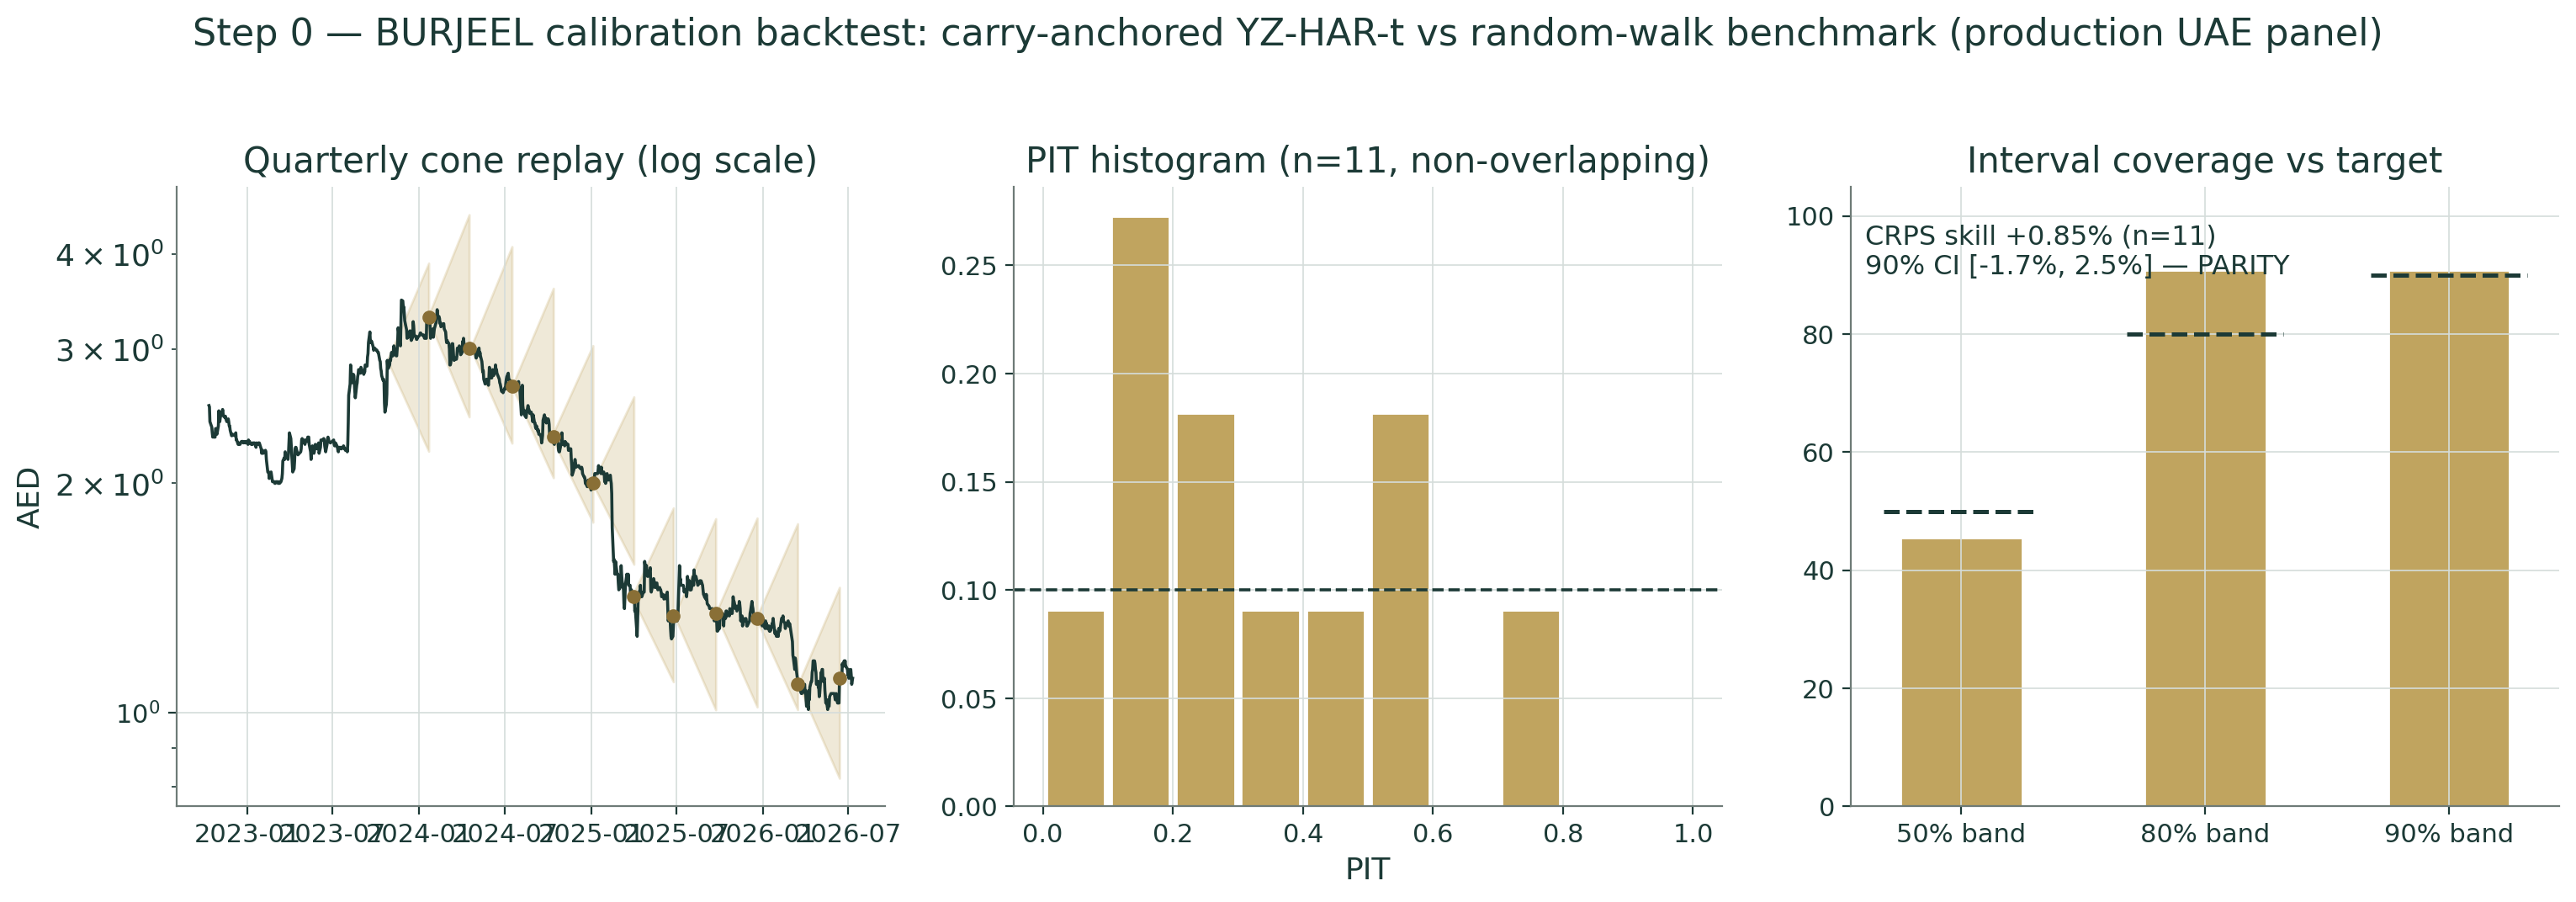
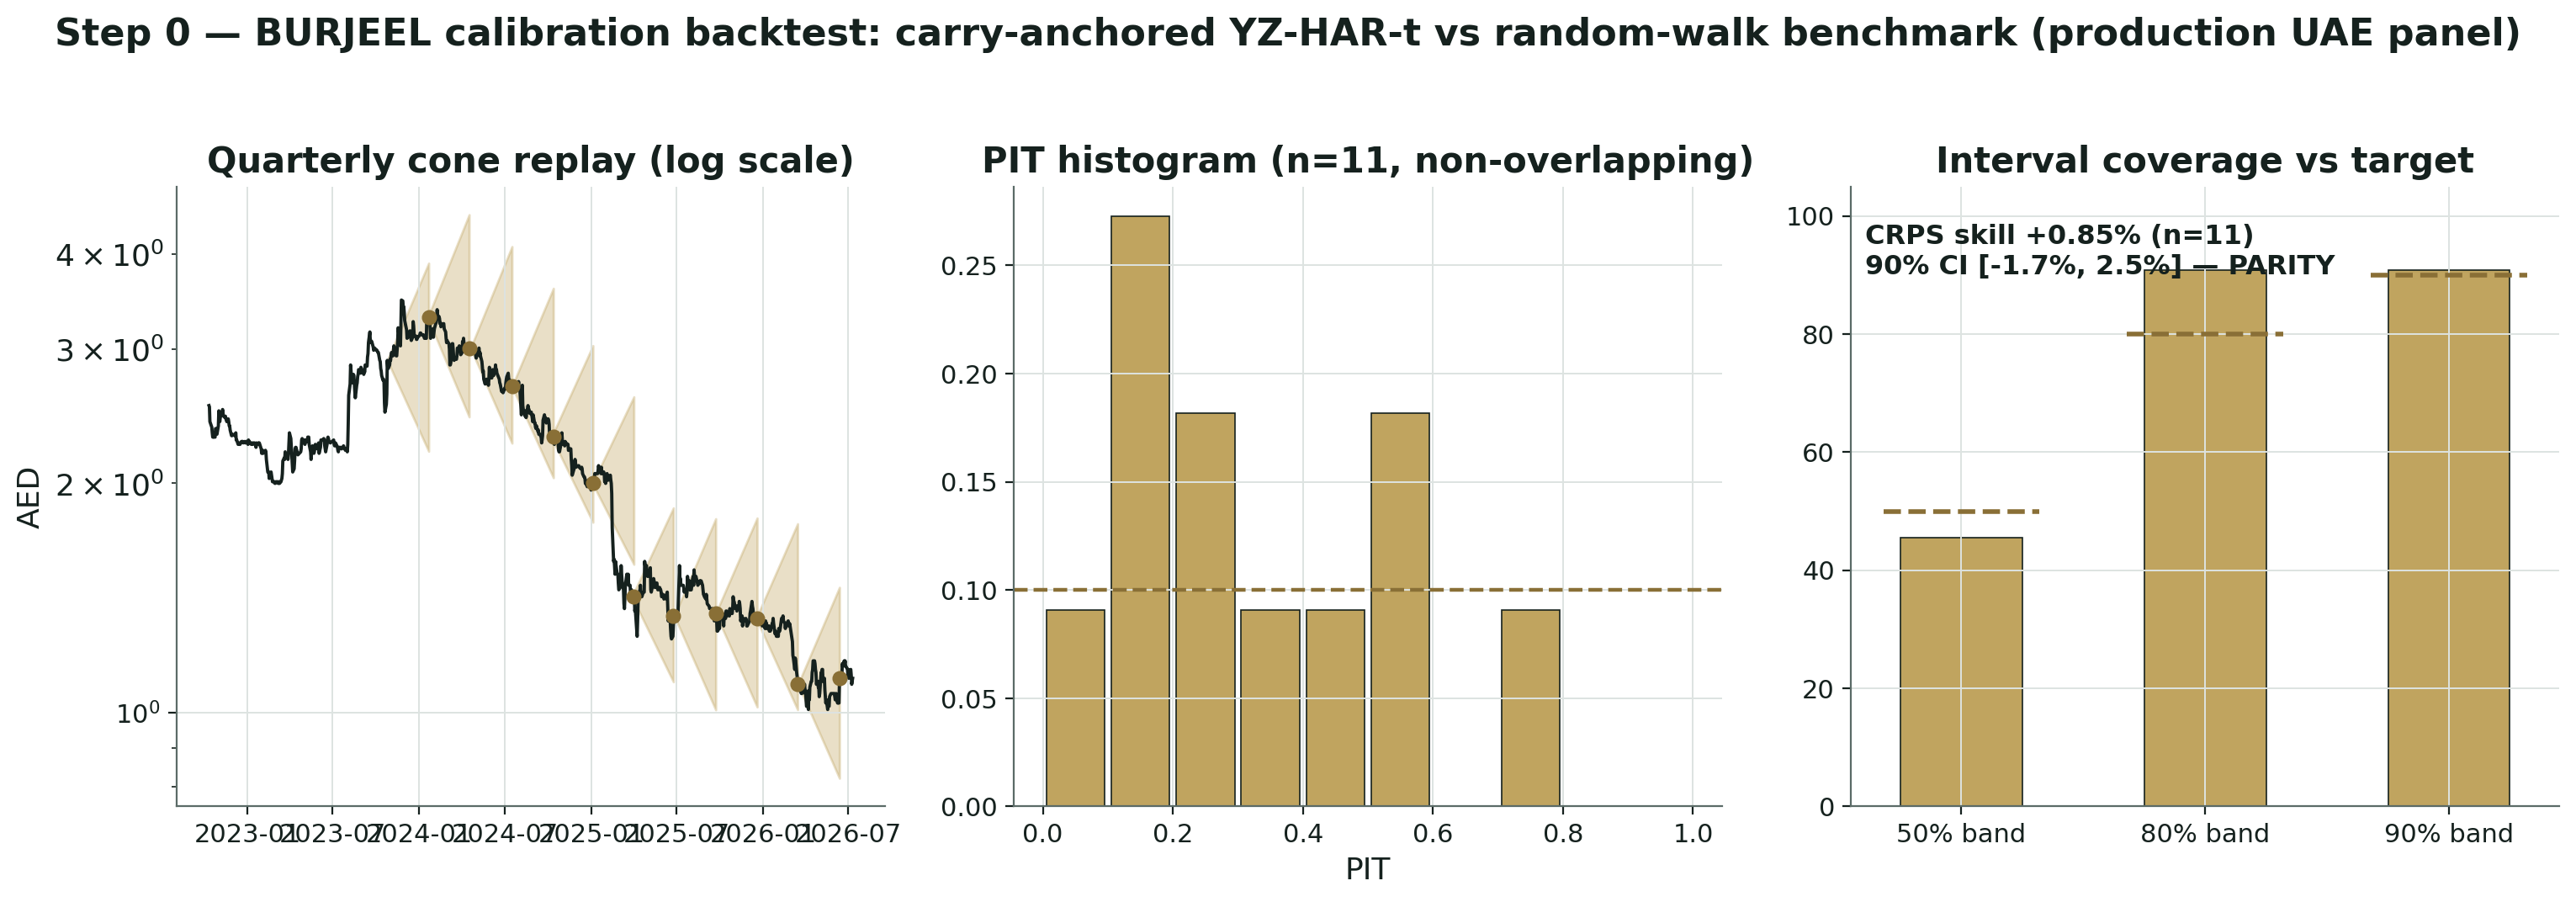
Fix calibration_BURJEEL.png contrast — solid white background + dark ink text (was transparent dark-teal text, invisible on the dark-theme card); bump cache-bust to 20260712e

diff --git a/assets/data.js b/assets/data.js
@@ -29,10 +29,10 @@ const TICKERS = {
       bear: "Losing AED 0.93 — the all-time low, one fil below spot — puts the stock into price territory it has never traded in. There is no support below it because there is no history below it."
     },
     files: {
-      study: "files/LULU_Valuation_Study_12-07-2026_public.docx?v=20260712d",
-      model: "files/LULU_Valuation_Model_12072026_public.xlsx?v=20260712d",
-      pdf:   "files/LULU_Valuation_Study_12-07-2026_public.pdf?v=20260712d",
-      biblio:"files/LULU_Source_Register_12-07-2026.docx?v=20260712d"
+      study: "files/LULU_Valuation_Study_12-07-2026_public.docx?v=20260712e",
+      model: "files/LULU_Valuation_Model_12072026_public.xlsx?v=20260712e",
+      pdf:   "files/LULU_Valuation_Study_12-07-2026_public.pdf?v=20260712e",
+      biblio:"files/LULU_Source_Register_12-07-2026.docx?v=20260712e"
     }
   },
 
@@ -59,9 +59,9 @@ const TICKERS = {
       bear: "Losing the 50-day near AED 1.09 exposes the 52-week low at AED 1.00, a level touched 7-Apr-2026."
     },
     files: {
-      study: "files/BURJEEL_Valuation_Study_11-07-2026_public.docx?v=20260712d",
-      model: "files/BURJEEL_Valuation_Model_11072026_public.xlsx?v=20260712d",
-      pdf:   "files/BURJEEL_Valuation_Study_11-07-2026_public.pdf?v=20260712d"
+      study: "files/BURJEEL_Valuation_Study_11-07-2026_public.docx?v=20260712e",
+      model: "files/BURJEEL_Valuation_Model_11072026_public.xlsx?v=20260712e",
+      pdf:   "files/BURJEEL_Valuation_Study_11-07-2026_public.pdf?v=20260712e"
     }
   },
   SALIK: {
@@ -87,10 +87,10 @@ const TICKERS = {
       bear: "Losing the 50-day near AED 5.72 exposes AED 5.25 and then the 52-week low at 4.99."
     },
     files: {
-      study: "files/SALIK_Valuation_Study_11-07-2026_public.docx?v=20260712d",
-      model: "files/SALIK_Valuation_Model_11072026_public.xlsx?v=20260712d",
-      pdf:   "files/SALIK_Valuation_Study_11-07-2026_public.pdf?v=20260712d",
-      biblio:"files/SALIK_Source_Register_11-07-2026.docx?v=20260712d"
+      study: "files/SALIK_Valuation_Study_11-07-2026_public.docx?v=20260712e",
+      model: "files/SALIK_Valuation_Model_11072026_public.xlsx?v=20260712e",
+      pdf:   "files/SALIK_Valuation_Study_11-07-2026_public.pdf?v=20260712e",
+      biblio:"files/SALIK_Source_Register_11-07-2026.docx?v=20260712e"
     }
   },
   DIB: {

diff --git a/lulu.html b/lulu.html
@@ -8,10 +8,10 @@
 <link rel="preconnect" href="https://fonts.googleapis.com">
 <link rel="preconnect" href="https://fonts.gstatic.com" crossorigin>
 <link href="https://fonts.googleapis.com/css2?family=Alexandria:wght@500;700;800&family=IBM+Plex+Sans:wght@400;600&family=IBM+Plex+Mono:wght@500&display=swap" rel="stylesheet">
-<link rel="icon" type="image/png" href="favicon.png?v=20260712d">
-<link rel="apple-touch-icon" href="apple-touch-icon.png?v=20260712d">
+<link rel="icon" type="image/png" href="favicon.png?v=20260712e">
+<link rel="apple-touch-icon" href="apple-touch-icon.png?v=20260712e">
 <script>(function(){try{var t=localStorage.getItem('theme');if(!t){t=(window.matchMedia&&window.matchMedia('(prefers-color-scheme: dark)').matches)?'dark':'light';}if(t==='dark'){document.documentElement.setAttribute('data-theme','dark');}}catch(e){}document.addEventListener('click',function(e){var b=e.target&&e.target.closest&&e.target.closest('#theme-toggle');if(!b)return;var dark=document.documentElement.getAttribute('data-theme')==='dark';var n=dark?'light':'dark';if(n==='dark'){document.documentElement.setAttribute('data-theme','dark');}else{document.documentElement.removeAttribute('data-theme');}try{localStorage.setItem('theme',n);}catch(e){}b.setAttribute('aria-pressed',String(n==='dark'));});document.addEventListener('DOMContentLoaded',function(){var x=document.getElementById('theme-toggle');if(x)x.setAttribute('aria-pressed',String(document.documentElement.getAttribute('data-theme')==='dark'));});})();</script>
-<link rel="stylesheet" href="assets/style.css?v=20260712d">
+<link rel="stylesheet" href="assets/style.css?v=20260712e">
 <meta property="og:type" content="website">
 <meta property="og:site_name" content="testahil?">
 <meta property="og:title" content="Lulu Retail (LULU) — is it worth it? | testahil?">
@@ -858,7 +858,7 @@
   </div>
 </div>
 
-<script src="assets/data.js?v=20260712d"></script><script src="assets/app.js?v=20260712d"></script>
+<script src="assets/data.js?v=20260712e"></script><script src="assets/app.js?v=20260712e"></script>
 <script>
 const T=TICKERS.LULU;
 document.getElementById("upd").textContent=SITE.updated;

diff --git a/ar/lulu.html b/ar/lulu.html
@@ -13,7 +13,7 @@
 <link rel="preconnect" href="https://fonts.googleapis.com">
 <link rel="preconnect" href="https://fonts.gstatic.com" crossorigin>
 <link href="https://fonts.googleapis.com/css2?family=Alexandria:wght@500;700;800&family=IBM+Plex+Sans+Arabic:wght@400;600&family=IBM+Plex+Mono:wght@500&display=swap" rel="stylesheet">
-<link rel="icon" type="image/png" href="../favicon.png?v=20260712d">
+<link rel="icon" type="image/png" href="../favicon.png?v=20260712e">
 <meta property="og:type" content="article">
 <meta property="og:site_name" content="تستاهل؟">
 <meta property="og:title" content="نطاق سعر سهم لولو للتجزئة (LULU) خلال 3 أشهر — احتمالات لا رقم واحد">
@@ -333,8 +333,8 @@ header.nav .wrap{max-width:1180px !important}
     <b>اقرأ الدراسة الكاملة وحمّل النموذج ←</b>
     <span>الدراسة (PDF) والنموذج المفتوح (Excel) — بالإنجليزية، ومجاناً بالكامل</span>
     <div class="cta-links">
-      <a class="dlfile" href="../files/LULU_Valuation_Study_12-07-2026_public.pdf?v=20260712d" rel="noopener" download>PDF</a>
-      <a class="dlfile" href="../files/LULU_Valuation_Model_12072026_public.xlsx?v=20260712d" rel="noopener">Excel</a>
+      <a class="dlfile" href="../files/LULU_Valuation_Study_12-07-2026_public.pdf?v=20260712e" rel="noopener" download>PDF</a>
+      <a class="dlfile" href="../files/LULU_Valuation_Model_12072026_public.xlsx?v=20260712e" rel="noopener">Excel</a>
     </div>
     <span class="mobileonly" style="display:block;margin-top:14px;color:#fff;font-family:Tajawal,sans-serif;font-size:.9rem;line-height:1.6">الدراسة الكاملة (PDF) والنموذج (Excel) متاحان على الكمبيوتر — افتح الموقع على حاسوب لقراءتهما.</span>
   </div>

diff --git a/gold.html b/gold.html
@@ -11,8 +11,8 @@
 <link rel="icon" type="image/png" href="favicon.png?v=2">
 <link rel="apple-touch-icon" href="apple-touch-icon.png?v=2">
 <script>(function(){try{var t=localStorage.getItem('theme');if(!t){t=(window.matchMedia&&window.matchMedia('(prefers-color-scheme: dark)').matches)?'dark':'light';}if(t==='dark'){document.documentElement.setAttribute('data-theme','dark');}}catch(e){}document.addEventListener('click',function(e){var b=e.target&&e.target.closest&&e.target.closest('#theme-toggle');if(!b)return;var dark=document.documentElement.getAttribute('data-theme')==='dark';var n=dark?'light':'dark';if(n==='dark'){document.documentElement.setAttribute('data-theme','dark');}else{document.documentElement.removeAttribute('data-theme');}try{localStorage.setItem('theme',n);}catch(e){}b.setAttribute('aria-pressed',String(n==='dark'));});document.addEventListener('DOMContentLoaded',function(){var x=document.getElementById('theme-toggle');if(x)x.setAttribute('aria-pressed',String(document.documentElement.getAttribute('data-theme')==='dark'));});})();</script>
-<!-- Gold data is single-sourced from METALS.GOLD in assets/data.js?v=20260712d (window.GOLDDATA assigned after data.js loads). -->
-<link rel="stylesheet" href="assets/style.css?v=20260712d">
+<!-- Gold data is single-sourced from METALS.GOLD in assets/data.js?v=20260712e (window.GOLDDATA assigned after data.js loads). -->
+<link rel="stylesheet" href="assets/style.css?v=20260712e">
 <meta property="og:type" content="website">
 <meta property="og:site_name" content="testahil?">
 <meta property="og:title" content="Gold (XAU/USD) — is it worth it? | testahil?">
@@ -797,7 +797,7 @@
   </div>
 </div>
 
-<script src="assets/data.js?v=20260712d"></script><script src="assets/app.js?v=20260712d"></script>
+<script src="assets/data.js?v=20260712e"></script><script src="assets/app.js?v=20260712e"></script>
 <script>
 window.GOLDDATA=METALS.GOLD;
 const T=window.GOLDDATA;

diff --git a/ledger.html b/ledger.html
@@ -11,7 +11,7 @@
 <link rel="icon" type="image/png" href="favicon.png?v=2">
 <link rel="apple-touch-icon" href="apple-touch-icon.png?v=2">
 <script>(function(){try{var t=localStorage.getItem('theme');if(!t){t=(window.matchMedia&&window.matchMedia('(prefers-color-scheme: dark)').matches)?'dark':'light';}if(t==='dark'){document.documentElement.setAttribute('data-theme','dark');}}catch(e){}document.addEventListener('click',function(e){var b=e.target&&e.target.closest&&e.target.closest('#theme-toggle');if(!b)return;var dark=document.documentElement.getAttribute('data-theme')==='dark';var n=dark?'light':'dark';if(n==='dark'){document.documentElement.setAttribute('data-theme','dark');}else{document.documentElement.removeAttribute('data-theme');}try{localStorage.setItem('theme',n);}catch(e){}b.setAttribute('aria-pressed',String(n==='dark'));});document.addEventListener('DOMContentLoaded',function(){var x=document.getElementById('theme-toggle');if(x)x.setAttribute('aria-pressed',String(document.documentElement.getAttribute('data-theme')==='dark'));});})();</script>
-<link rel="stylesheet" href="assets/style.css?v=20260712d">
+<link rel="stylesheet" href="assets/style.css?v=20260712e">
 <meta property="og:type" content="website">
 <meta property="og:site_name" content="testahil?">
 <meta property="og:title" content="Public ledger — testahil?">
@@ -143,7 +143,7 @@
 
 <footer><div class="wrap"><div class="foot-studies"><b>Studies:</b> <a href="phdc.html">Palm Hills</a> &middot; <a href="tmgh.html">Talaat Moustafa</a> &middot; <a href="ocdi.html">SODIC</a> &middot; <a href="orhd.html">Orascom Dev</a> &middot; <a href="oras.html">Orascom Const</a> &middot; <a href="comi.html">CIB</a> &middot; <a href="emfd.html">Emaar Misr</a> &middot; <a href="gold.html">Gold</a> &middot; <a href="stocks.html">all &rarr;</a></div><b>Disclaimer:</b> Educational valuation studies and personal analytical opinion — not investment advice, not recommendations. The preparer is not licensed by Egypt's FRA, manages no money, accepts no clients, and may hold positions in instruments mentioned. <a href="method.html#disclaimer">Full text</a>.<br><br><span class="social" style="font-size:var(--fs-lead);font-weight:700">Follow Testahil &mdash; <a href="https://t.me/testahil_markets" target="_blank" rel="noopener">Telegram</a> &middot; <a href="https://www.facebook.com/testahil.markets" target="_blank" rel="noopener">Facebook</a> &middot; <a href="https://www.linkedin.com/company/testahil" target="_blank" rel="noopener">LinkedIn</a></span></div></footer>
 
-<script src="assets/data.js?v=20260712d"></script><script src="assets/app.js?v=20260712d"></script>
+<script src="assets/data.js?v=20260712e"></script><script src="assets/app.js?v=20260712e"></script>
 <script>
 const F2 = n => Number(n).toLocaleString("en-US",{maximumFractionDigits:2});
 
@@ -274,7 +274,7 @@ tabPanels.innerHTML = `<div class="tab-panel active" id="panel-all">
   ${HAS_BACKTEST.has(t) ? `<h3 style="font-size:var(--fs-h3);margin:24px 0 4px">Five-year calibration backtest</h3>
   <p class="muted" style="margin:0 0 12px;max-width:760px">The same model replayed on ${t}’s past five years — each quarter’s 3-month forecast cone against the price that actually printed, the PIT histogram (flat = well-calibrated), and how often each band actually held. Methodology validation; it does not count toward the live score above.</p>
   ${CAL_FAIL.has(t) && !BANNER_BAKED.has(t) ? CALIB_FAIL_BANNER : (CAL_MATCH.has(t) ? CALIB_MATCH_BANNER : ``)}
-  <div class="card bt-fig"><img alt="${t} five-year calibration backtest — quarterly cone replay, PIT histogram, and band coverage vs target" src="assets/calibration_${t}.png?v=20260712d"></div>` : ``}
+  <div class="card bt-fig"><img alt="${t} five-year calibration backtest — quarterly cone replay, PIT histogram, and band coverage vs target" src="assets/calibration_${t}.png?v=20260712e"></div>` : ``}
 </div>`).join("");
 
 // Build all panel

diff --git a/silver.html b/silver.html
@@ -11,8 +11,8 @@
 <link rel="icon" type="image/png" href="favicon.png?v=2">
 <link rel="apple-touch-icon" href="apple-touch-icon.png?v=2">
 <script>(function(){try{var t=localStorage.getItem('theme');if(!t){t=(window.matchMedia&&window.matchMedia('(prefers-color-scheme: dark)').matches)?'dark':'light';}if(t==='dark'){document.documentElement.setAttribute('data-theme','dark');}}catch(e){}document.addEventListener('click',function(e){var b=e.target&&e.target.closest&&e.target.closest('#theme-toggle');if(!b)return;var dark=document.documentElement.getAttribute('data-theme')==='dark';var n=dark?'light':'dark';if(n==='dark'){document.documentElement.setAttribute('data-theme','dark');}else{document.documentElement.removeAttribute('data-theme');}try{localStorage.setItem('theme',n);}catch(e){}b.setAttribute('aria-pressed',String(n==='dark'));});document.addEventListener('DOMContentLoaded',function(){var x=document.getElementById('theme-toggle');if(x)x.setAttribute('aria-pressed',String(document.documentElement.getAttribute('data-theme')==='dark'));});})();</script>
-<!-- Silver data is single-sourced from METALS.SILVER in assets/data.js?v=20260712d (window.SILVERDATA assigned after data.js loads). -->
-<link rel="stylesheet" href="assets/style.css?v=20260712d">
+<!-- Silver data is single-sourced from METALS.SILVER in assets/data.js?v=20260712e (window.SILVERDATA assigned after data.js loads). -->
+<link rel="stylesheet" href="assets/style.css?v=20260712e">
 <meta property="og:type" content="website">
 <meta property="og:site_name" content="testahil?">
 <meta property="og:title" content="Silver (XAG/USD) — is it worth it? | testahil?">
@@ -793,7 +793,7 @@
   </div>
 </div>
 
-<script src="assets/data.js?v=20260712d"></script><script src="assets/app.js?v=20260712d"></script>
+<script src="assets/data.js?v=20260712e"></script><script src="assets/app.js?v=20260712e"></script>
 <script>
 window.SILVERDATA=METALS.SILVER;
 const T=window.SILVERDATA;

diff --git a/2pointzero.html b/2pointzero.html
@@ -11,7 +11,7 @@
 <link rel="icon" type="image/png" href="favicon.png?v=20260711f">
 <link rel="apple-touch-icon" href="apple-touch-icon.png?v=20260711f">
 <script>(function(){try{var t=localStorage.getItem('theme');if(!t){t=(window.matchMedia&&window.matchMedia('(prefers-color-scheme: dark)').matches)?'dark':'light';}if(t==='dark'){document.documentElement.setAttribute('data-theme','dark');}}catch(e){}document.addEventListener('click',function(e){var b=e.target&&e.target.closest&&e.target.closest('#theme-toggle');if(!b)return;var dark=document.documentElement.getAttribute('data-theme')==='dark';var n=dark?'light':'dark';if(n==='dark'){document.documentElement.setAttribute('data-theme','dark');}else{document.documentElement.removeAttribute('data-theme');}try{localStorage.setItem('theme',n);}catch(e){}b.setAttribute('aria-pressed',String(n==='dark'));});document.addEventListener('DOMContentLoaded',function(){var x=document.getElementById('theme-toggle');if(x)x.setAttribute('aria-pressed',String(document.documentElement.getAttribute('data-theme')==='dark'));});})();</script>
-<link rel="stylesheet" href="assets/style.css?v=20260712d">
+<link rel="stylesheet" href="assets/style.css?v=20260712e">
 <meta property="og:type" content="website">
 <meta property="og:site_name" content="testahil?">
 <meta property="og:title" content="Two Point Zero Group (2POINTZERO) — is it worth it? | testahil?">
@@ -852,7 +852,7 @@
   </div>
 </div>
 
-<script src="assets/data.js?v=20260712d"></script><script src="assets/app.js?v=20260712d"></script>
+<script src="assets/data.js?v=20260712e"></script><script src="assets/app.js?v=20260712e"></script>
 <script>
 const T=TICKERS['2POINTZERO'];
 document.getElementById("upd").textContent=SITE.updated;

diff --git a/404.html b/404.html
@@ -12,7 +12,7 @@
 <link rel="icon" type="image/png" href="favicon.png?v=2">
 <link rel="apple-touch-icon" href="apple-touch-icon.png?v=2">
 <script>(function(){try{var t=localStorage.getItem('theme');if(!t){t=(window.matchMedia&&window.matchMedia('(prefers-color-scheme: dark)').matches)?'dark':'light';}if(t==='dark'){document.documentElement.setAttribute('data-theme','dark');}}catch(e){}document.addEventListener('click',function(e){var b=e.target&&e.target.closest&&e.target.closest('#theme-toggle');if(!b)return;var dark=document.documentElement.getAttribute('data-theme')==='dark';var n=dark?'light':'dark';if(n==='dark'){document.documentElement.setAttribute('data-theme','dark');}else{document.documentElement.removeAttribute('data-theme');}try{localStorage.setItem('theme',n);}catch(e){}b.setAttribute('aria-pressed',String(n==='dark'));});document.addEventListener('DOMContentLoaded',function(){var x=document.getElementById('theme-toggle');if(x)x.setAttribute('aria-pressed',String(document.documentElement.getAttribute('data-theme')==='dark'));});})();</script>
-<link rel="stylesheet" href="assets/style.css?v=20260712d">
+<link rel="stylesheet" href="assets/style.css?v=20260712e">
 
 <!-- Google tag (gtag.js) -->
 <script async src="https://www.googletagmanager.com/gtag/js?id=G-H9NV0ZK9RN"></script>
@@ -53,5 +53,5 @@
 </main>
 
 <footer><div class="wrap"><div class="foot-studies"><b>Studies:</b> <a href="phdc.html">Palm Hills</a> &middot; <a href="tmgh.html">Talaat Moustafa</a> &middot; <a href="ocdi.html">SODIC</a> &middot; <a href="orhd.html">Orascom Dev</a> &middot; <a href="oras.html">Orascom Const</a> &middot; <a href="comi.html">CIB</a> &middot; <a href="emfd.html">Emaar Misr</a> &middot; <a href="gold.html">Gold</a> &middot; <a href="stocks.html">all &rarr;</a></div><b>Disclaimer:</b> Educational valuation studies and personal analytical opinion — not investment advice, not recommendations. The preparer is not licensed by Egypt's FRA, manages no money, accepts no clients, and may hold positions in instruments mentioned. <a href="method.html#disclaimer">Full text</a>.<br><br><span class="social" style="font-size:var(--fs-lead);font-weight:700">Follow Testahil &mdash; <a href="https://t.me/testahil_markets" target="_blank" rel="noopener">Telegram</a> &middot; <a href="https://www.facebook.com/testahil.markets" target="_blank" rel="noopener">Facebook</a> &middot; <a href="https://www.linkedin.com/company/testahil" target="_blank" rel="noopener">LinkedIn</a></span></div></footer>
-<script src="assets/data.js?v=20260712d"></script><script src="assets/app.js?v=20260712d"></script>
+<script src="assets/data.js?v=20260712e"></script><script src="assets/app.js?v=20260712e"></script>
 </body></html>

diff --git a/aapl.html b/aapl.html
@@ -11,7 +11,7 @@
 <link rel="icon" type="image/png" href="favicon.png?v=2">
 <link rel="apple-touch-icon" href="apple-touch-icon.png?v=2">
 <script>(function(){try{var t=localStorage.getItem('theme');if(!t){t=(window.matchMedia&&window.matchMedia('(prefers-color-scheme: dark)').matches)?'dark':'light';}if(t==='dark'){document.documentElement.setAttribute('data-theme','dark');}}catch(e){}document.addEventListener('click',function(e){var b=e.target&&e.target.closest&&e.target.closest('#theme-toggle');if(!b)return;var dark=document.documentElement.getAttribute('data-theme')==='dark';var n=dark?'light':'dark';if(n==='dark'){document.documentElement.setAttribute('data-theme','dark');}else{document.documentElement.removeAttribute('data-theme');}try{localStorage.setItem('theme',n);}catch(e){}b.setAttribute('aria-pressed',String(n==='dark'));});document.addEventListener('DOMContentLoaded',function(){var x=document.getElementById('theme-toggle');if(x)x.setAttribute('aria-pressed',String(document.documentElement.getAttribute('data-theme')==='dark'));});})();</script>
-<link rel="stylesheet" href="assets/style.css?v=20260712d">
+<link rel="stylesheet" href="assets/style.css?v=20260712e">
 <meta property="og:type" content="website">
 <meta property="og:site_name" content="testahil?">
 <meta property="og:title" content="Apple (AAPL) — is it worth it? | testahil?">
@@ -853,7 +853,7 @@
   </div>
 </div>
 
-<script src="assets/data.js?v=20260712d"></script><script src="assets/app.js?v=20260712d"></script>
+<script src="assets/data.js?v=20260712e"></script><script src="assets/app.js?v=20260712e"></script>
 <script>
 const T=TICKERS.AAPL;
 document.getElementById("upd").textContent=SITE.updated;

diff --git a/abuk.html b/abuk.html
@@ -11,7 +11,7 @@
 <link rel="icon" type="image/png" href="favicon.png?v=2">
 <link rel="apple-touch-icon" href="apple-touch-icon.png?v=2">
 <script>(function(){try{var t=localStorage.getItem('theme');if(!t){t=(window.matchMedia&&window.matchMedia('(prefers-color-scheme: dark)').matches)?'dark':'light';}if(t==='dark'){document.documentElement.setAttribute('data-theme','dark');}}catch(e){}document.addEventListener('click',function(e){var b=e.target&&e.target.closest&&e.target.closest('#theme-toggle');if(!b)return;var dark=document.documentElement.getAttribute('data-theme')==='dark';var n=dark?'light':'dark';if(n==='dark'){document.documentElement.setAttribute('data-theme','dark');}else{document.documentElement.removeAttribute('data-theme');}try{localStorage.setItem('theme',n);}catch(e){}b.setAttribute('aria-pressed',String(n==='dark'));});document.addEventListener('DOMContentLoaded',function(){var x=document.getElementById('theme-toggle');if(x)x.setAttribute('aria-pressed',String(document.documentElement.getAttribute('data-theme')==='dark'));});})();</script>
-<link rel="stylesheet" href="assets/style.css?v=20260712d">
+<link rel="stylesheet" href="assets/style.css?v=20260712e">
 <meta property="og:type" content="website">
 <meta property="og:site_name" content="testahil?">
 <meta property="og:title" content="Abu Kir Fertilizers (ABUK) — is it worth it? | testahil?">
@@ -802,7 +802,7 @@
   </div>
 </div>
 
-<script src="assets/data.js?v=20260712d"></script><script src="assets/app.js?v=20260712d"></script>
+<script src="assets/data.js?v=20260712e"></script><script src="assets/app.js?v=20260712e"></script>
 <script>
 const T=TICKERS.ABUK;
 document.getElementById("upd").textContent=SITE.updated;

diff --git a/acwa.html b/acwa.html
@@ -11,7 +11,7 @@
 <link rel="icon" type="image/png" href="favicon.png?v=2">
 <link rel="apple-touch-icon" href="apple-touch-icon.png?v=2">
 <script>(function(){try{var t=localStorage.getItem('theme');if(!t){t=(window.matchMedia&&window.matchMedia('(prefers-color-scheme: dark)').matches)?'dark':'light';}if(t==='dark'){document.documentElement.setAttribute('data-theme','dark');}}catch(e){}document.addEventListener('click',function(e){var b=e.target&&e.target.closest&&e.target.closest('#theme-toggle');if(!b)return;var dark=document.documentElement.getAttribute('data-theme')==='dark';var n=dark?'light':'dark';if(n==='dark'){document.documentElement.setAttribute('data-theme','dark');}else{document.documentElement.removeAttribute('data-theme');}try{localStorage.setItem('theme',n);}catch(e){}b.setAttribute('aria-pressed',String(n==='dark'));});document.addEventListener('DOMContentLoaded',function(){var x=document.getElementById('theme-toggle');if(x)x.setAttribute('aria-pressed',String(document.documentElement.getAttribute('data-theme')==='dark'));});})();</script>
-<link rel="stylesheet" href="assets/style.css?v=20260712d">
+<link rel="stylesheet" href="assets/style.css?v=20260712e">
 <meta property="og:type" content="website">
 <meta property="og:site_name" content="testahil?">
 <meta property="og:title" content="ACWA Power Company (2082) — is it worth it? | testahil?">
@@ -852,7 +852,7 @@
   </div>
 </div>
 
-<script src="assets/data.js?v=20260712d"></script><script src="assets/app.js?v=20260712d"></script>
+<script src="assets/data.js?v=20260712e"></script><script src="assets/app.js?v=20260712e"></script>
 <script>
 const T=TICKERS.ACWA;
 document.getElementById("upd").textContent=SITE.updated;

diff --git a/adcb.html b/adcb.html
@@ -11,7 +11,7 @@
 <link rel="icon" type="image/png" href="favicon.png?v=2">
 <link rel="apple-touch-icon" href="apple-touch-icon.png?v=2">
 <script>(function(){try{var t=localStorage.getItem('theme');if(!t){t=(window.matchMedia&&window.matchMedia('(prefers-color-scheme: dark)').matches)?'dark':'light';}if(t==='dark'){document.documentElement.setAttribute('data-theme','dark');}}catch(e){}document.addEventListener('click',function(e){var b=e.target&&e.target.closest&&e.target.closest('#theme-toggle');if(!b)return;var dark=document.documentElement.getAttribute('data-theme')==='dark';var n=dark?'light':'dark';if(n==='dark'){document.documentElement.setAttribute('data-theme','dark');}else{document.documentElement.removeAttribute('data-theme');}try{localStorage.setItem('theme',n);}catch(e){}b.setAttribute('aria-pressed',String(n==='dark'));});document.addEventListener('DOMContentLoaded',function(){var x=document.getElementById('theme-toggle');if(x)x.setAttribute('aria-pressed',String(document.documentElement.getAttribute('data-theme')==='dark'));});})();</script>
-<link rel="stylesheet" href="assets/style.css?v=20260712d">
+<link rel="stylesheet" href="assets/style.css?v=20260712e">
 <meta property="og:type" content="website">
 <meta property="og:site_name" content="testahil?">
 <meta property="og:title" content="Abu Dhabi Commercial Bank (ADCB) — is it worth it? | testahil?">
@@ -853,7 +853,7 @@
   </div>
 </div>
 
-<script src="assets/data.js?v=20260712d"></script><script src="assets/app.js?v=20260712d"></script>
+<script src="assets/data.js?v=20260712e"></script><script src="assets/app.js?v=20260712e"></script>
 <script>
 const T=TICKERS.ADCB;
 document.getElementById("upd").textContent=SITE.updated;